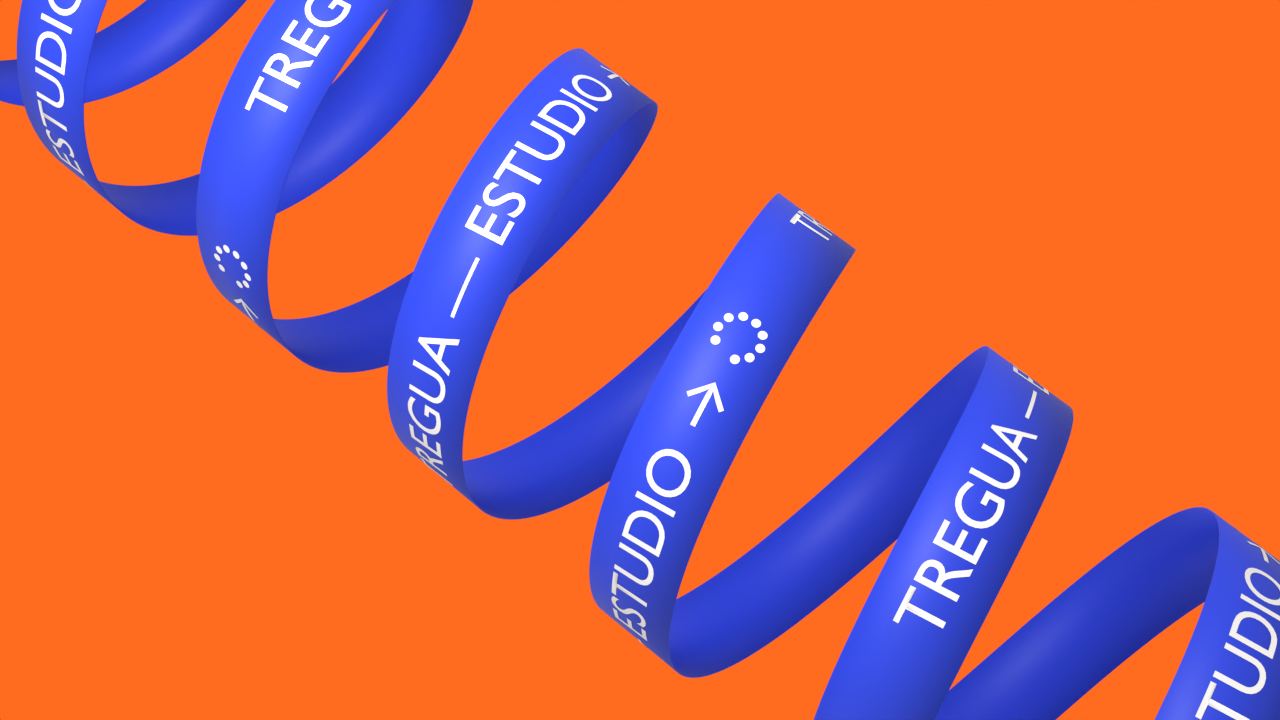
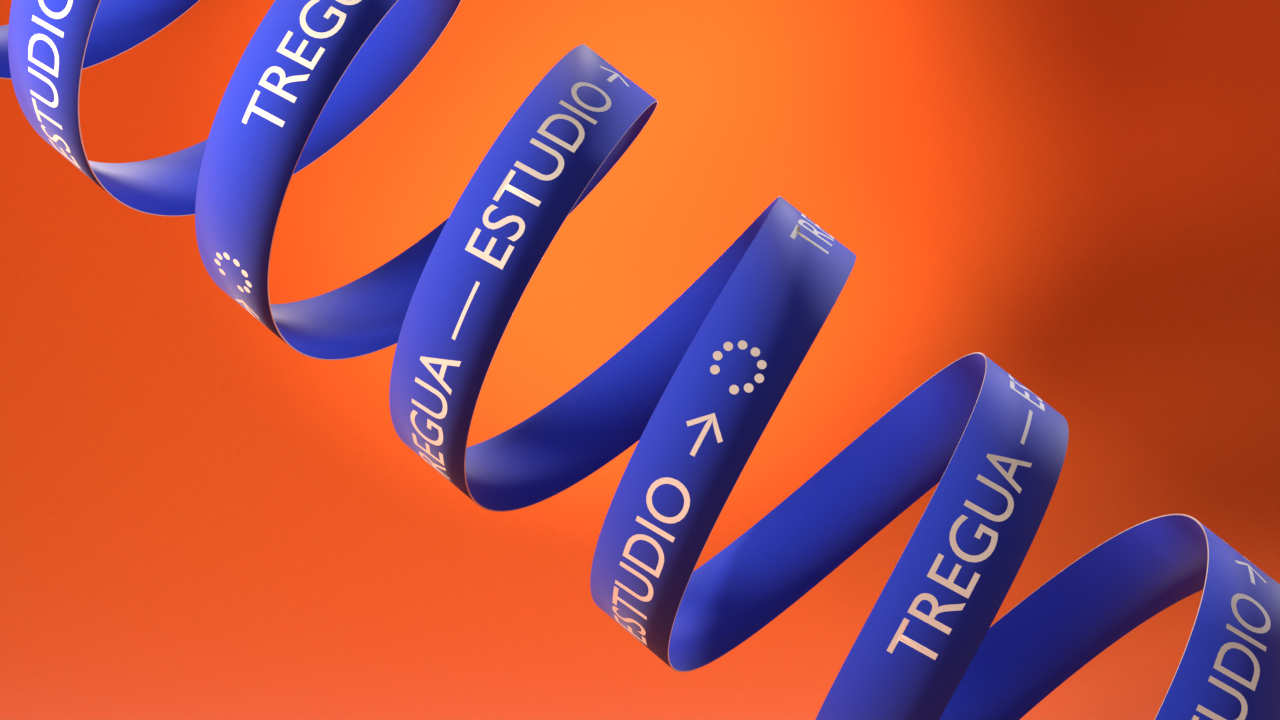
Cinta de cartulina, fondo infinito y luz de tarde
- Materiales de cartulina: mate, con fibra en relieve, leve manchado
  del pigmento y canto claro visible en el corte
- Texto como tinta impresa sobre el papel
- Papel infinito de estudio lejano con halo de luz detrás de la cinta
- Luz de tarde cálida y rasante, contra fría y profundidad de campo
- Previews actualizadas y detalle de la textura

Claude-Session: https://claude.ai/code/session_0121m7YK9CXNaJS4Mb2Yre8x

diff --git a/cinta-tregua/cinta_tregua.py b/cinta-tregua/cinta_tregua.py
@@ -10,9 +10,12 @@ Cómo usarlo:
      (guardá el .blend antes) o en la carpeta temporal si no lo guardaste.
 
 Qué arma:
-  - Fondo naranja liso (exacto en cámara; la luz que rebota es neutra para no teñir la cinta).
-  - Una cinta azul enrollada en hélice, en diagonal, con "TREGUA — ESTUDIO →" y un
-    anillo de puntos en blanco, en geometría real (no es una imagen).
+  - Fondo infinito naranja: un papel de estudio lejano (piso que sube en curva a la pared),
+    con un círculo de luz detrás de la cinta que se apaga hacia los bordes.
+  - Una cinta azul de cartulina (mate, con fibra de papel y canto claro) enrollada en hélice,
+    en diagonal, con "TREGUA — ESTUDIO →" y un anillo de puntos impresos en blanco.
+  - Luz de tarde: principal cálida y rasante desde la izquierda, contra fría que marca
+    los cantos, y profundidad de campo suave.
   - La cinta "corre": un movimiento de tornillo hace que la hélice quede en su lugar
     mientras el texto avanza como un cartel corredizo. El loop es perfecto
     (frame 1 = frame final + 1): 3 vueltas de 8 s = 24 s.
@@ -33,6 +36,8 @@ FONT_PATH = ""            # ruta a un .ttf/.otf; vacío = tipografía por defect
 COLOR_FONDO = "#FF6B1F"   # naranja
 COLOR_CINTA = "#1F3FE0"   # azul
 COLOR_TEXTO = "#FFFFFF"   # blanco
+COLOR_CANTO = "#EDE7DC"   # el alma clara de la cartulina que se ve en el corte
+GROSOR = 0.018            # grosor de la cartulina
 
 ANCHO = 1.0               # ancho de la cinta
 RADIO = 2.3               # radio de la hélice
@@ -67,6 +72,14 @@ def limpiar_escena():
                 coleccion.remove(bloque)
 
 
+def entrada(nodo, *nombres):
+    """Primera entrada que exista (los nombres cambian entre Blender 3.x y 4.x)."""
+    for n in nombres:
+        if n in nodo.inputs:
+            return nodo.inputs[n]
+    return None
+
+
 def material(nombre, color_hex, rugosidad):
     mat = bpy.data.materials.new(nombre)
     mat.use_nodes = True
@@ -74,6 +87,56 @@ def material(nombre, color_hex, rugosidad):
     bsdf.inputs["Base Color"].default_value = hex_a_lineal(color_hex)
     bsdf.inputs["Roughness"].default_value = rugosidad
     mat.diffuse_color = hex_a_lineal(color_hex)  # color en el viewport sólido
+    return mat
+
+
+def material_cartulina(nombre, color_hex, rugosidad=0.9, fibra=1.0):
+    """Papel grueso mate: fibra fina en relieve, leve variación de tono y un brillo de terciopelo."""
+    mat = material(nombre, color_hex, rugosidad)
+    nt = mat.node_tree
+    bsdf = nt.nodes.get("Principled BSDF")
+    spec = entrada(bsdf, "Specular IOR Level", "Specular")
+    if spec:
+        spec.default_value = 0.25
+    sheen = entrada(bsdf, "Sheen Weight", "Sheen")
+    if sheen:
+        sheen.default_value = 0.35
+
+    coord = nt.nodes.new("ShaderNodeTexCoord")
+    # fibra: ruido fino, un poco estirado en una dirección como el grano del papel
+    mapeo = nt.nodes.new("ShaderNodeMapping")
+    mapeo.inputs["Scale"].default_value = (1.0, 3.0, 1.0)
+    fibra_n = nt.nodes.new("ShaderNodeTexNoise")
+    fibra_n.inputs["Scale"].default_value = 70.0
+    fibra_n.inputs["Detail"].default_value = 10.0
+    poro = nt.nodes.new("ShaderNodeTexNoise")
+    poro.inputs["Scale"].default_value = 220.0
+    poro.inputs["Detail"].default_value = 2.0
+    suma = nt.nodes.new("ShaderNodeMath")
+    suma.operation = "ADD"
+    relieve = nt.nodes.new("ShaderNodeBump")
+    relieve.inputs["Strength"].default_value = 0.22 * fibra
+    relieve.inputs["Distance"].default_value = 0.006
+    nt.links.new(coord.outputs["Object"], mapeo.inputs["Vector"])
+    nt.links.new(mapeo.outputs["Vector"], fibra_n.inputs["Vector"])
+    nt.links.new(coord.outputs["Object"], poro.inputs["Vector"])
+    nt.links.new(fibra_n.outputs["Fac"], suma.inputs[0])
+    nt.links.new(poro.outputs["Fac"], suma.inputs[1])
+    nt.links.new(suma.outputs["Value"], relieve.inputs["Height"])
+    nt.links.new(relieve.outputs["Normal"], bsdf.inputs["Normal"])
+
+    # manchado muy sutil del pigmento
+    mancha = nt.nodes.new("ShaderNodeTexNoise")
+    mancha.inputs["Scale"].default_value = 14.0
+    tono = nt.nodes.new("ShaderNodeHueSaturation")
+    tono.inputs["Color"].default_value = hex_a_lineal(color_hex)
+    rampa = nt.nodes.new("ShaderNodeMapRange")
+    rampa.inputs["To Min"].default_value = 0.93
+    rampa.inputs["To Max"].default_value = 1.05
+    nt.links.new(coord.outputs["Object"], mancha.inputs["Vector"])
+    nt.links.new(mancha.outputs["Fac"], rampa.inputs["Value"])
+    nt.links.new(rampa.outputs["Result"], tono.inputs["Value"])
+    nt.links.new(tono.outputs["Color"], bsdf.inputs["Base Color"])
     return mat
 
 
@@ -184,7 +247,7 @@ def crear_texto(padre, mat):
         bmesh.ops.translate(bm, verts=nuevos, vec=Vector((inicio + i * largo_tramo, 0, 0)))
     bpy.data.meshes.remove(me_tramo)
 
-    enrollar(bm, separacion=0.004)
+    enrollar(bm, separacion=0.0015)  # tinta impresa, casi pegada al papel
     me = bpy.data.meshes.new("Texto")
     bm.to_mesh(me)
     bm.free()
@@ -197,7 +260,7 @@ def crear_texto(padre, mat):
     return ob
 
 
-def crear_cinta(padre, mat):
+def crear_cinta(padre, mat, mat_canto):
     total = LARGO_VUELTA * VUELTAS
     pasos = int(total / 0.04)
     bm = bmesh.new()
@@ -221,12 +284,42 @@ def crear_cinta(padre, mat):
     for p in me.polygons:
         p.use_smooth = True
     me.materials.append(mat)
+    me.materials.append(mat_canto)
     ob = bpy.data.objects.new("Cinta", me)
     bpy.context.scene.collection.objects.link(ob)
     ob.parent = padre
     sol = ob.modifiers.new("Grosor", "SOLIDIFY")
-    sol.thickness = 0.012
+    sol.thickness = GROSOR
     sol.offset = -1.0  # crece hacia adentro: la cara impresa queda donde está el texto
+    sol.material_offset_rim = 1  # el corte muestra el alma clara de la cartulina
+    return ob
+
+
+def crear_ciclorama():
+    """Papel infinito de estudio, lejos de la cinta: piso que sube en curva hasta la pared."""
+    piso_z, pared_y, radio, ancho = -6.5, 16.0, 9.0, 160.0
+    perfil = [(y, piso_z) for y in (-40.0, -20.0, 0.0, pared_y - radio)]
+    for i in range(1, 32):
+        a = i / 32 * math.pi / 2
+        perfil.append((pared_y - radio + radio * math.sin(a), piso_z + radio - radio * math.cos(a)))
+    perfil += [(pared_y, piso_z + radio + h) for h in (0.0, 20.0, 60.0)]
+    bm = bmesh.new()
+    filas = [[bm.verts.new((x, y, z)) for x in (-ancho / 2, 0.0, ancho / 2)] for y, z in perfil]
+    for a, b in zip(filas, filas[1:]):
+        for j in range(2):
+            bm.faces.new((a[j], a[j + 1], b[j + 1], b[j]))
+    bm.normal_update()
+    bm.faces.ensure_lookup_table()
+    if bm.faces[0].normal.z < 0:  # que mire hacia arriba / hacia la cámara
+        bmesh.ops.reverse_faces(bm, faces=bm.faces[:])
+    me = bpy.data.meshes.new("Ciclorama")
+    bm.to_mesh(me)
+    bm.free()
+    for p in me.polygons:
+        p.use_smooth = True
+    me.materials.append(material_cartulina("Papel de fondo", COLOR_FONDO, 0.95, fibra=0.4))
+    ob = bpy.data.objects.new("Ciclorama", me)
+    bpy.context.scene.collection.objects.link(ob)
     return ob
 
 
@@ -245,7 +338,7 @@ def configurar_mundo():
     fondo_cam.inputs["Strength"].default_value = 1.0
     # la luz ambiente es casi neutra (apenas cálida) para que el azul no se ensucie
     fondo_luz.inputs["Color"].default_value = (1.0, 0.93, 0.88, 1.0)
-    fondo_luz.inputs["Strength"].default_value = 0.55
+    fondo_luz.inputs["Strength"].default_value = 0.22  # relleno bajo: manda la luz de tarde
     nt.links.new(camino.outputs["Is Camera Ray"], mezcla.inputs["Fac"])
     nt.links.new(fondo_luz.outputs["Background"], mezcla.inputs[1])
     nt.links.new(fondo_cam.outputs["Background"], mezcla.inputs[2])
@@ -311,28 +404,44 @@ def main():
     finally:
         prefs.keyframe_new_interpolation_type = interp_original
 
-    mat_cinta = material("Cinta azul", COLOR_CINTA, 0.55)
-    mat_texto = material("Texto blanco", COLOR_TEXTO, 0.5)
-    crear_cinta(tornillo, mat_cinta)
+    mat_cinta = material_cartulina("Cartulina azul", COLOR_CINTA, 0.88)
+    mat_canto = material_cartulina("Canto de cartulina", COLOR_CANTO, 0.92, fibra=0.6)
+    mat_texto = material_cartulina("Tinta blanca", COLOR_TEXTO, 0.8)
+    crear_cinta(tornillo, mat_cinta, mat_canto)
     crear_texto(tornillo, mat_texto)
+    crear_ciclorama()
 
-    # Cámara de frente
+    # Cámara de frente, apenas desde arriba para que se vea el piso perderse en la pared
     cam_data = bpy.data.cameras.new("Camara")
     cam_data.lens = 50
+    cam_data.dof.use_dof = True
+    cam_data.dof.focus_distance = 19.2
+    cam_data.dof.aperture_fstop = 3.5
     cam = bpy.data.objects.new("Camara", cam_data)
     escena.collection.objects.link(cam)
-    cam.location = (0, -19, 0)
-    cam.rotation_euler = (math.pi / 2, 0, 0)
+    cam.location = (0, -19, 2.2)
+    cam.rotation_euler = (Vector((0, 0, 0)) - cam.location).to_track_quat("-Z", "Y").to_euler()
     escena.camera = cam
 
-    # Luz principal suave, arriba a la izquierda y de frente
-    luz_data = bpy.data.lights.new("Softbox", "AREA")
-    luz_data.energy = 2500
-    luz_data.size = 8
-    luz = bpy.data.objects.new("Softbox", luz_data)
-    escena.collection.objects.link(luz)
-    luz.location = (-7, -12, 8)
-    luz.rotation_euler = (Vector((0, 0, 0)) - luz.location).to_track_quat("-Z", "Y").to_euler()
+    def luz(nombre, tipo, energia, color, pos, mira, **extra):
+        datos = bpy.data.lights.new(nombre, tipo)
+        datos.energy = energia
+        datos.color = color
+        for k, v in extra.items():
+            setattr(datos, k, v)
+        ob = bpy.data.objects.new(nombre, datos)
+        escena.collection.objects.link(ob)
+        ob.location = pos
+        ob.rotation_euler = (Vector(mira) - Vector(pos)).to_track_quat("-Z", "Y").to_euler()
+        return ob
+
+    # Luz de tarde: principal cálida y rasante desde la izquierda; deja sombras largas en el fondo
+    luz("Sol de tarde", "AREA", 3200, (1.0, 0.8, 0.6), (-14, -7, 7), (0, 0, 0), size=2.5)
+    # Contra fría desde atrás a la derecha: dibuja los cantos de la cartulina
+    luz("Contra", "AREA", 1400, (0.75, 0.85, 1.0), (9, 7, 6), (0, 0, 0), size=1.5)
+    # Círculo de luz en el papel de fondo, detrás de la cinta, que se apaga hacia los bordes
+    luz("Halo de fondo", "SPOT", 9000, (1.0, 0.9, 0.8), (0, 2, 3), (0, 16, 2),
+        spot_size=math.radians(70), spot_blend=1.0)
 
     configurar_mundo()
     configurar_render()
